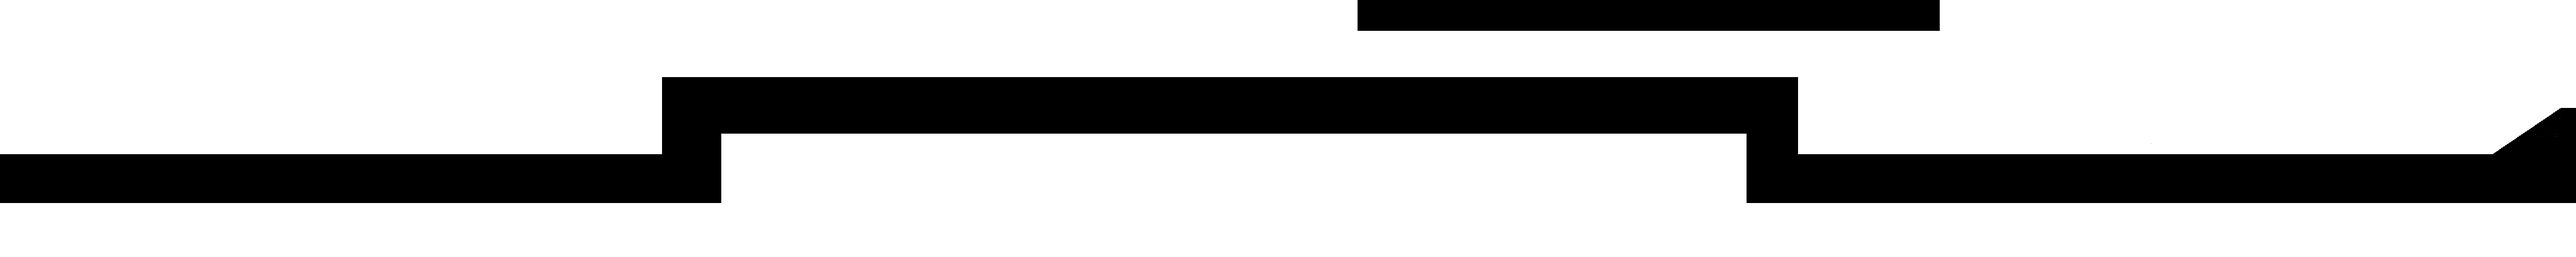
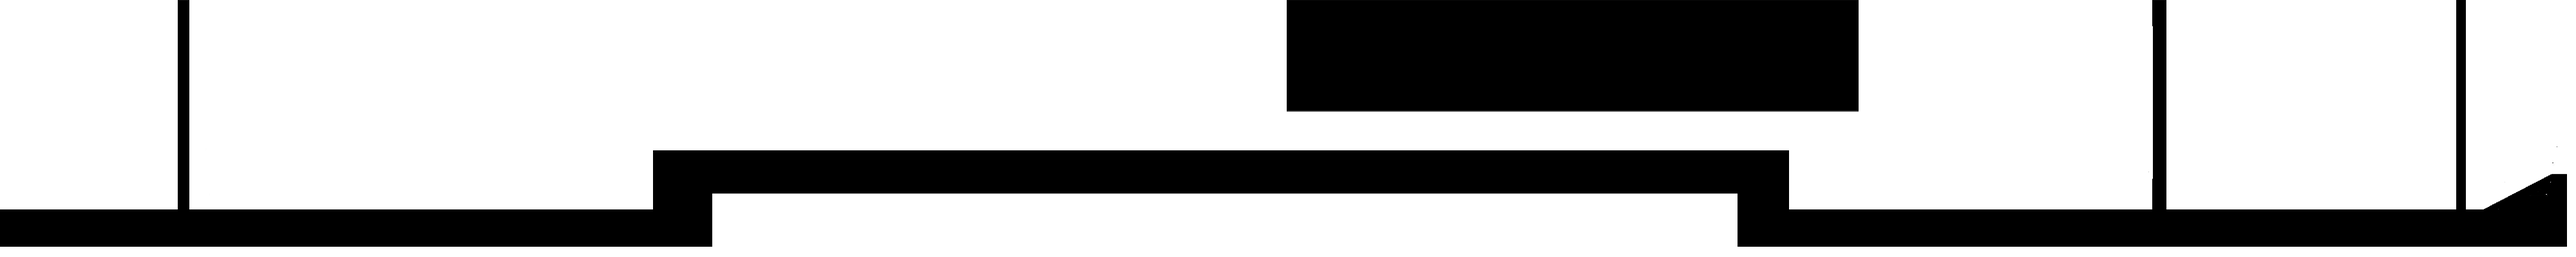
move image final, updated foreground to match with background.

diff --git a/project/Level1.cpp b/project/Level1.cpp
@@ -15,7 +15,7 @@ Level1::Level1() {
 Level1::~Level1() {}
 
 void Level1::loadMedia() {
-    Levels::setBackground(Levels::loadTexture("imgs/level1_final.png"));
-    Levels::setForeground("imgs/lvls/level1door.png");
+    Levels::setBackground(Levels::loadTexture("imgs/lvls/level1_final.png"));
+    Levels::setForeground("imgs/lvls/level1.png");
     Levels::setMusic(Mix_LoadMUS("sound/intro.wav"));
 }

diff --git a/project/Person.cpp b/project/Person.cpp
@@ -11,7 +11,7 @@ Person::Person() {
     Window = NULL;
     Renderer = NULL;
     XPos = 0;
-    YPos = 0;
+    YPos = 200;
     CurrRun = 0;
     CurrRoll = 0;
     CurrPunch = 0;
